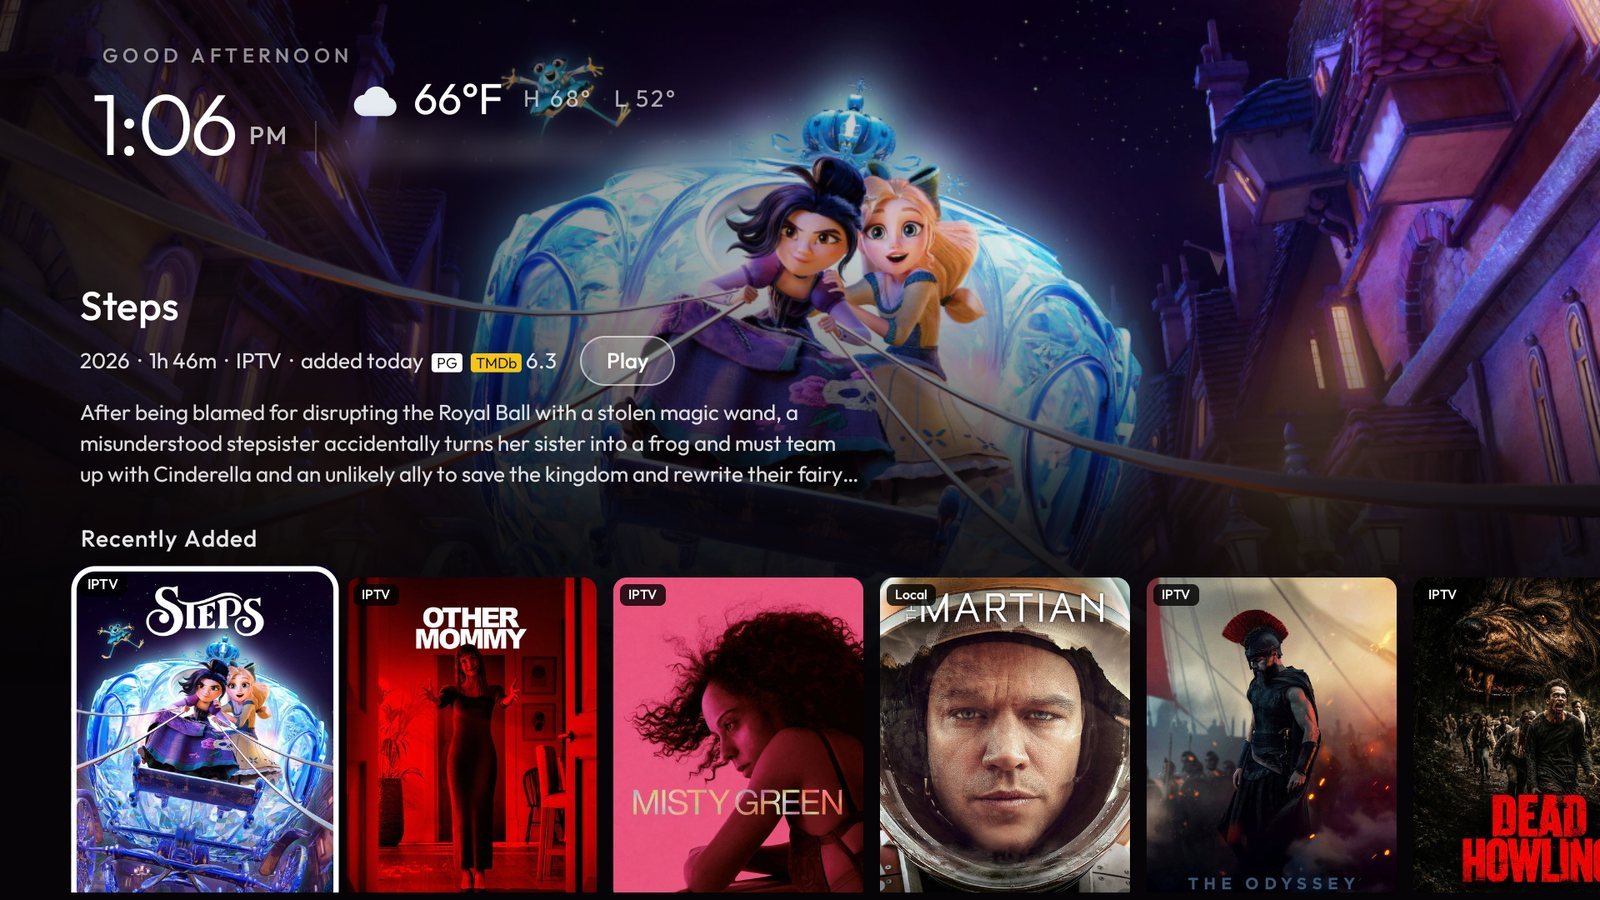
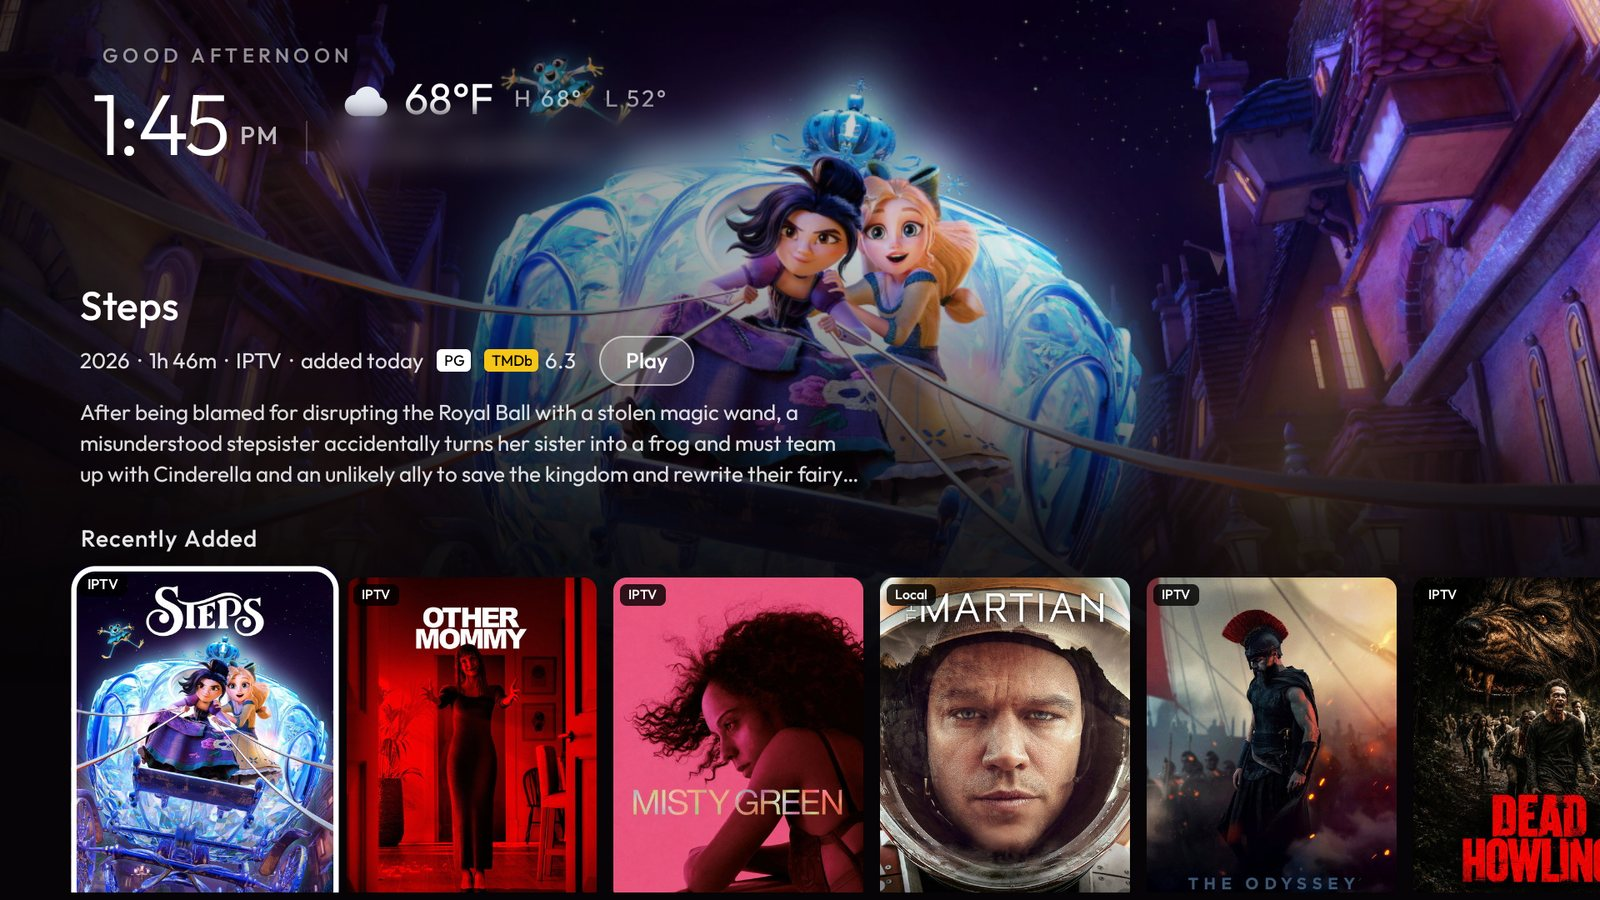
Launcher: render clean media badges and series backdrops
Render rating and TMDb metadata as normal views so TV glyphs stay intact. Resolve series backdrops from TMDB's TV search and propagate the original-resolution image into the Home/Shows spotlight. Refresh the README screenshots and cover the new Shows image in the fork test. Tested on Office; built at 663121 bytes.

Changed region(s): [[0.0625, 0.0933, 0.4375, 0.1867], [0.25, 0.3733, 0.4375, 0.4356]]

diff --git a/launcher/app/src/main/java/com/gathin/tvhome/MediaRail.java b/launcher/app/src/main/java/com/gathin/tvhome/MediaRail.java
@@ -20,8 +20,6 @@ import android.os.Handler;
 import android.os.Looper;
 import android.os.SystemClock;
 import android.text.TextUtils;
-import android.text.Spannable;
-import android.text.SpannableStringBuilder;
 import android.util.AtomicFile;
 import android.util.Log;
 import android.util.LruCache;
@@ -188,6 +186,8 @@ final class MediaRail {
     private final FrameLayout showcase;      // the big left box: the ONE focusable/clickable element in the rail
     private final ImageView showcaseImage;   // the big left showcase box's art
     private final TextView showcaseRating;
+    private final TextView showcaseTmdb;
+    private final TextView showcaseScore;
     private final TextView featuredTitle;    // the showcase title
     private final TextView featuredSub;       // detail line: "year · source · added" or "N new episodes"
     private final TextView featuredOverview;
@@ -348,8 +348,10 @@ final class MediaRail {
                 ViewGroup.LayoutParams.MATCH_PARENT, ViewGroup.LayoutParams.MATCH_PARENT));
         showcaseImage.setVisibility(View.GONE);
 
-        showcaseRating = ratingBadge(context);
-        showcaseRating.setVisibility(View.GONE);
+        showcaseRating = metadataBadge(context, false);
+        showcaseTmdb = metadataBadge(context, true);
+        showcaseTmdb.setText("TMDb");
+        showcaseScore = metadataScore(context);
 
         LinearLayout showText = new LinearLayout(context);
         showText.setOrientation(LinearLayout.VERTICAL);
@@ -380,6 +382,21 @@ final class MediaRail {
         featuredSub.setMaxWidth(dp(470));
         detailHeader.addView(featuredSub, new LinearLayout.LayoutParams(
                 ViewGroup.LayoutParams.WRAP_CONTENT, ViewGroup.LayoutParams.WRAP_CONTENT));
+
+        LinearLayout.LayoutParams ratingLp = new LinearLayout.LayoutParams(
+                ViewGroup.LayoutParams.WRAP_CONTENT, ViewGroup.LayoutParams.WRAP_CONTENT);
+        ratingLp.setMarginStart(dp(8));
+        detailHeader.addView(showcaseRating, ratingLp);
+
+        LinearLayout.LayoutParams tmdbLp = new LinearLayout.LayoutParams(
+                ViewGroup.LayoutParams.WRAP_CONTENT, ViewGroup.LayoutParams.WRAP_CONTENT);
+        tmdbLp.setMarginStart(dp(8));
+        detailHeader.addView(showcaseTmdb, tmdbLp);
+
+        LinearLayout.LayoutParams scoreLp = new LinearLayout.LayoutParams(
+                ViewGroup.LayoutParams.WRAP_CONTENT, ViewGroup.LayoutParams.WRAP_CONTENT);
+        scoreLp.setMarginStart(dp(4));
+        detailHeader.addView(showcaseScore, scoreLp);
 
         playButton = new TextView(context);
         playButton.setText(R.string.media_rail_play);
@@ -1044,7 +1061,7 @@ final class MediaRail {
     private void bindShowMore() {
         heroItem = null;
         playButton.setVisibility(View.GONE);
-        showcaseRating.setVisibility(View.GONE);
+        clearFeaturedMetadata();
         if (!spotlightItems.isEmpty()) {
             loadImage(showcaseImage, wideArt(spotlightItems.get(0)));
             showcaseImage.setAlpha(0.35f);         // dim the art so the "Show more" label clearly leads
@@ -1554,7 +1571,7 @@ final class MediaRail {
     private void maybeFetchBackdrop(MediaItem it) {
         if (tmdb == null || it == null) return;
         if (it.backdrop != null && !it.backdrop.isEmpty()) return;   // already have one
-        String key = it.title + "|" + it.year;
+        String key = metadataKey(it);
         String cached = backdropCache.get(key);
         if (cached != null) {                 // "" means "looked up, none found" — don't re-query
             if (!cached.isEmpty()) {
@@ -1568,12 +1585,13 @@ final class MediaRail {
         }
         final String title = it.title;
         final int year = it.year;
+        final boolean series = it.isSeries;
         // Use worker (not imagePool): a slow TMDB call must not occupy an image-decode thread. worker is otherwise
         // idle except during refresh, and these lookups are infrequent (once per item the user lands on, cached).
         worker.execute(() -> {
             String bd;
             try {
-                bd = tmdb.searchBackdrop(title, year);
+                bd = tmdb.searchBackdrop(title, year, series);
             } catch (Exception e) {
                 return;   // leave it uncached: a transient failure can be retried next time the item is shown
             }
@@ -1601,7 +1619,7 @@ final class MediaRail {
     private void bindEmptyFilter() {
         heroItem = null;
         playButton.setVisibility(View.GONE);
-        showcaseRating.setVisibility(View.GONE);
+        clearFeaturedMetadata();
         showcaseImage.setAlpha(1f);
         showcaseImage.setImageDrawable(null);
         showcaseImage.setTag(null);
@@ -1621,7 +1639,7 @@ final class MediaRail {
             featuredSub.setText("");
             showcaseImage.setImageDrawable(null);
             showcaseImage.setTag(null);
-            showcaseRating.setVisibility(View.GONE);
+            clearFeaturedMetadata();
             playButton.setVisibility(View.GONE);
             return;
         }
@@ -1631,14 +1649,13 @@ final class MediaRail {
         playButton.setVisibility(View.VISIBLE);
         playButton.setContentDescription(context.getString(R.string.media_rail_play) + " " + it.spotlightTitle());
         TmdbClient.Info info = metadataCache.get(metadataKey(it));
-        showcaseRating.setVisibility(View.GONE);
         featuredSub.setText(detailLine(it, info));
+        bindFeaturedMetadata(info);
         featuredOverview.setText(info == null ? "" : info.overview);
         maybeFetchMetadata(it);
     }
 
-    /** Detail line under the title: "year" or "N new episodes", then the age rating when known, the source and when
-     *  it was added. */
+    /** Detail line under the title: year/runtime or episode count, then source and added date. */
     private CharSequence detailLine(MediaItem it, TmdbClient.Info info) {
         List<String> parts = new ArrayList<>();
         if (it.isSeries) {
@@ -1654,30 +1671,7 @@ final class MediaRail {
         parts.add(it.source == MediaItem.Source.DOWNLOAD ? badgeDownload : badgeStream);
         String added = addedText(it.added);
         if (!added.isEmpty()) parts.add(added);
-        SpannableStringBuilder line = new SpannableStringBuilder();
-        for (int i = 0; i < parts.size(); i++) {
-            if (i > 0) line.append("  \u00B7  ");
-            line.append(parts.get(i));
-        }
-        if (info != null) {
-            String certification = TmdbClient.ratingChip(info.certification);
-            if (!certification.isEmpty()) {
-                if (line.length() > 0) line.append("  ");
-                int start = line.length();
-                line.append(certification);
-                line.setSpan(new RoundedBadgeSpan(context, false), start, line.length(),
-                        Spannable.SPAN_EXCLUSIVE_EXCLUSIVE);
-            }
-            if (info.rating > 0) {
-                if (line.length() > 0) line.append("  ");
-                int start = line.length();
-                line.append("TMDb");
-                line.setSpan(new RoundedBadgeSpan(context, true), start, line.length(),
-                        Spannable.SPAN_EXCLUSIVE_EXCLUSIVE);
-                line.append(" ").append(String.format(java.util.Locale.US, "%.1f", info.rating));
-            }
-        }
-        return line;
+        return String.join("  \u00B7  ", parts);
     }
 
     private static String metadataKey(MediaItem it) {
@@ -1711,11 +1705,18 @@ final class MediaRail {
                 if (released) return;
                 metadataCache.put(key, result);
                 for (MediaItem item : allItems) {
-                    if (metadataKey(item).equals(key)) item.certification = result.certification;
+                    if (metadataKey(item).equals(key)) {
+                        item.certification = result.certification;
+                        if (!result.backdrop.isEmpty()) item.backdrop = result.backdrop;
+                    }
                 }
                 if (isSelected(it)) {
-                    showcaseRating.setVisibility(View.GONE);
+                    if (!result.backdrop.isEmpty()) {
+                        loadImage(showcaseImage, result.backdrop);
+                        host.onItemFocused(it);
+                    }
                     featuredSub.setText(detailLine(it, result));
+                    bindFeaturedMetadata(result);
                     featuredOverview.setText(result.overview);
                 }
                 adapter.notifyDataSetChanged();
@@ -1767,37 +1768,55 @@ final class MediaRail {
         return Math.round(v * density);
     }
 
-    private static TextView ratingBadge(Context context) {
-        TextView rating = new TextView(context);
-        rating.setTextSize(TypedValue.COMPLEX_UNIT_SP, 9);
-        rating.setTextColor(Color.WHITE);
-        rating.setTypeface(UiFont.get(context, R.string.font_medium));
-        rating.setGravity(Gravity.CENTER);
-        rating.setIncludeFontPadding(false);
-        rating.setSingleLine(true);
-        rating.setImportantForAccessibility(View.IMPORTANT_FOR_ACCESSIBILITY_NO);
+    private static TextView metadataBadge(Context context, boolean yellow) {
+        TextView badge = new TextView(context);
+        badge.setTextSize(TypedValue.COMPLEX_UNIT_SP, 9);
+        badge.setTextColor(Color.BLACK);
+        badge.setTypeface(UiFont.get(context, R.string.font_medium));
+        badge.setGravity(Gravity.CENTER);
+        badge.setIncludeFontPadding(false);
+        badge.setSingleLine(true);
+        badge.setPadding(dpValue(context, 4), dpValue(context, 1),
+                dpValue(context, 4), dpValue(context, 1));
+        badge.setImportantForAccessibility(View.IMPORTANT_FOR_ACCESSIBILITY_NO);
         GradientDrawable bg = new GradientDrawable();
-        bg.setCornerRadius(dpValue(context, 4));
-        bg.setColor(0xCC000000);
-        bg.setStroke(dpValue(context, 1), 0xCCFFFFFF);
-        rating.setBackground(bg);
-        rating.setVisibility(View.GONE);
-        return rating;
+        bg.setCornerRadius(dpValue(context, 3));
+        bg.setColor(yellow ? 0xFFF5C518 : Color.WHITE);
+        badge.setBackground(bg);
+        badge.setVisibility(View.GONE);
+        return badge;
+    }
+
+    private static TextView metadataScore(Context context) {
+        TextView score = new TextView(context);
+        score.setTextSize(TypedValue.COMPLEX_UNIT_SP, 13);
+        score.setTextColor(0xDDFFFFFF);
+        score.setTypeface(UiFont.get(context, R.string.font_regular));
+        score.setIncludeFontPadding(false);
+        score.setSingleLine(true);
+        score.setImportantForAccessibility(View.IMPORTANT_FOR_ACCESSIBILITY_NO);
+        score.setVisibility(View.GONE);
+        return score;
+    }
+
+    private void bindFeaturedMetadata(TmdbClient.Info info) {
+        String rating = info == null ? "" : TmdbClient.ratingChip(info.certification);
+        showcaseRating.setText(rating);
+        showcaseRating.setVisibility(rating.isEmpty() ? View.GONE : View.VISIBLE);
+        boolean scored = info != null && info.rating > 0;
+        showcaseTmdb.setVisibility(scored ? View.VISIBLE : View.GONE);
+        showcaseScore.setText(scored ? String.format(java.util.Locale.US, "%.1f", info.rating) : "");
+        showcaseScore.setVisibility(scored ? View.VISIBLE : View.GONE);
+    }
+
+    private void clearFeaturedMetadata() {
+        showcaseRating.setVisibility(View.GONE);
+        showcaseTmdb.setVisibility(View.GONE);
+        showcaseScore.setVisibility(View.GONE);
     }
 
     private static int dpValue(Context context, float value) {
         return Math.round(value * context.getResources().getDisplayMetrics().density);
-    }
-
-    private static void bindRating(TextView view, MediaItem item) {
-        bindRating(view, item, null);
-    }
-
-    private static void bindRating(TextView view, MediaItem item, TmdbClient.Info info) {
-        String rating = info == null ? item.certification : info.certification;
-        rating = TmdbClient.ratingChip(rating);
-        view.setText(rating);
-        view.setVisibility(rating.isEmpty() ? View.GONE : View.VISIBLE);
     }
 
     // ---- cards -----------------------------------------------------------------------------------

diff --git a/launcher/app/src/main/java/com/gathin/tvhome/TmdbClient.java b/launcher/app/src/main/java/com/gathin/tvhome/TmdbClient.java
@@ -105,16 +105,16 @@ final class TmdbClient {
     }
 
     /**
-     * Looks up one movie by title (optionally constrained to a release year) and returns its wide backdrop URL, or
-     * null when there is no api key, no match, or the match has no backdrop. Used to enrich a Media rail item whose
-     * provider gave only a poster, so the wide showcase shows a 16:9 still instead of a cropped poster. Blocks; run
-     * off the main thread. The year, when > 0, is passed to TMDB to disambiguate remakes and same-named series.
+     * Looks up one movie or show by title and returns its wide backdrop URL, or null when there is no API key,
+     * match, or backdrop. The TMDB search type follows the Media rail item, so a series cannot resolve to a
+     * same-named movie.
      */
-    String searchBackdrop(String title, int year) throws IOException {
+    String searchBackdrop(String title, int year, boolean series) throws IOException {
         if (apiKey.isEmpty() || title == null || title.trim().isEmpty()) return null;
-        String url = "https://api.themoviedb.org/3/search/movie?api_key=" + Uri.encode(apiKey)
+        String kind = series ? "tv" : "movie";
+        String url = "https://api.themoviedb.org/3/search/" + kind + "?api_key=" + Uri.encode(apiKey)
                 + "&query=" + Uri.encode(title.trim()) + "&include_adult=false";
-        if (year > 0) url += "&year=" + year;
+        if (year > 0) url += (series ? "&first_air_date_year=" : "&year=") + year;
         try (Reply reply = open(url)) {
             JsonReader r = reply.json;
             r.beginObject();

diff --git a/tests/fork/test_mytv.py b/tests/fork/test_mytv.py
@@ -28,6 +28,7 @@ FRONT_PAGE_IMAGES = [
     "docs/screenshots/home.jpg",
     "docs/screenshots/drawer.jpg",
     "docs/screenshots/movies.jpg",
+    "docs/screenshots/shows.jpg",
     "docs/screenshots/episodes.jpg",
     "docs/screenshots/apps.jpg",
 ]

diff --git a/README.md b/README.md
@@ -41,10 +41,15 @@ the selection back.
 
 ### Shows
 
-![Shows: an episode guide with large stills, episode titles and a season picker](docs/screenshots/episodes.jpg)
+![Shows: the selected series with its original wide backdrop and poster rail](docs/screenshots/shows.jpg)
 
 Shows lists your downloaded series, newest episode first, so a show with a new episode comes back to the front.
-Press OK on a show to open its episode guide. Each episode has its own still, title, overview and TMDb score.
+The selected series uses its full-resolution TMDB backdrop, not a stretched poster. Press OK on a show to open
+its episode guide.
+
+![Episode guide: large episode stills with titles beneath](docs/screenshots/episodes.jpg)
+
+Each episode has its own still, title, overview and TMDb score.
 
 ### Apps
 
